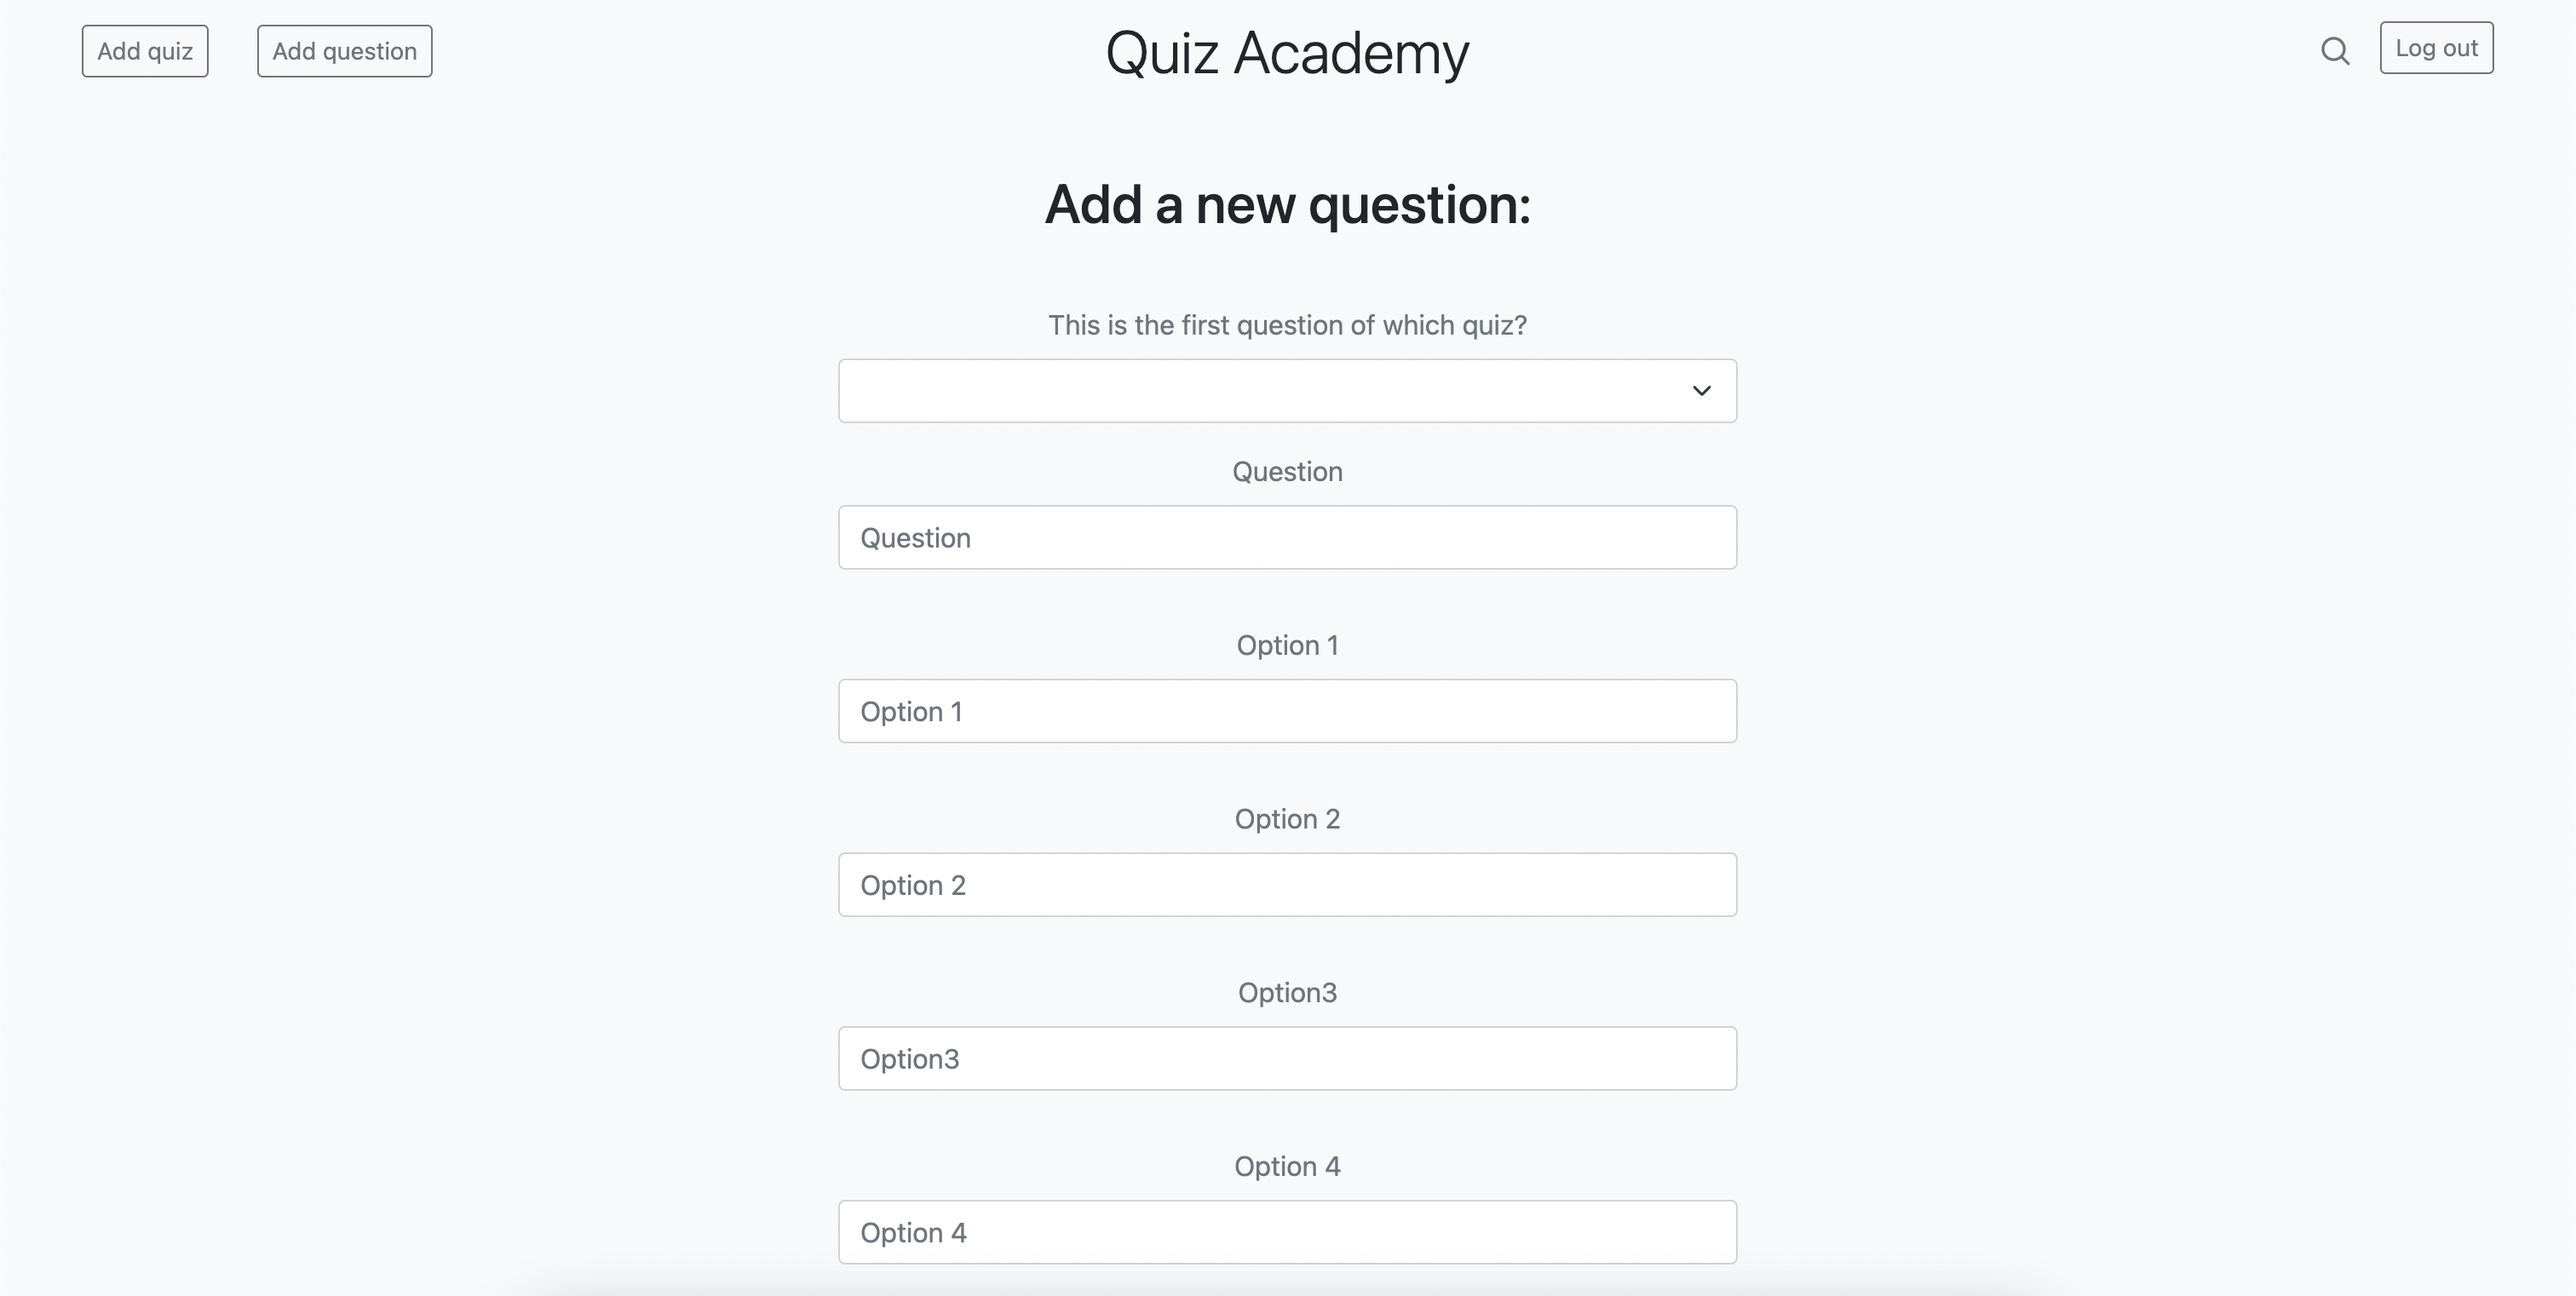
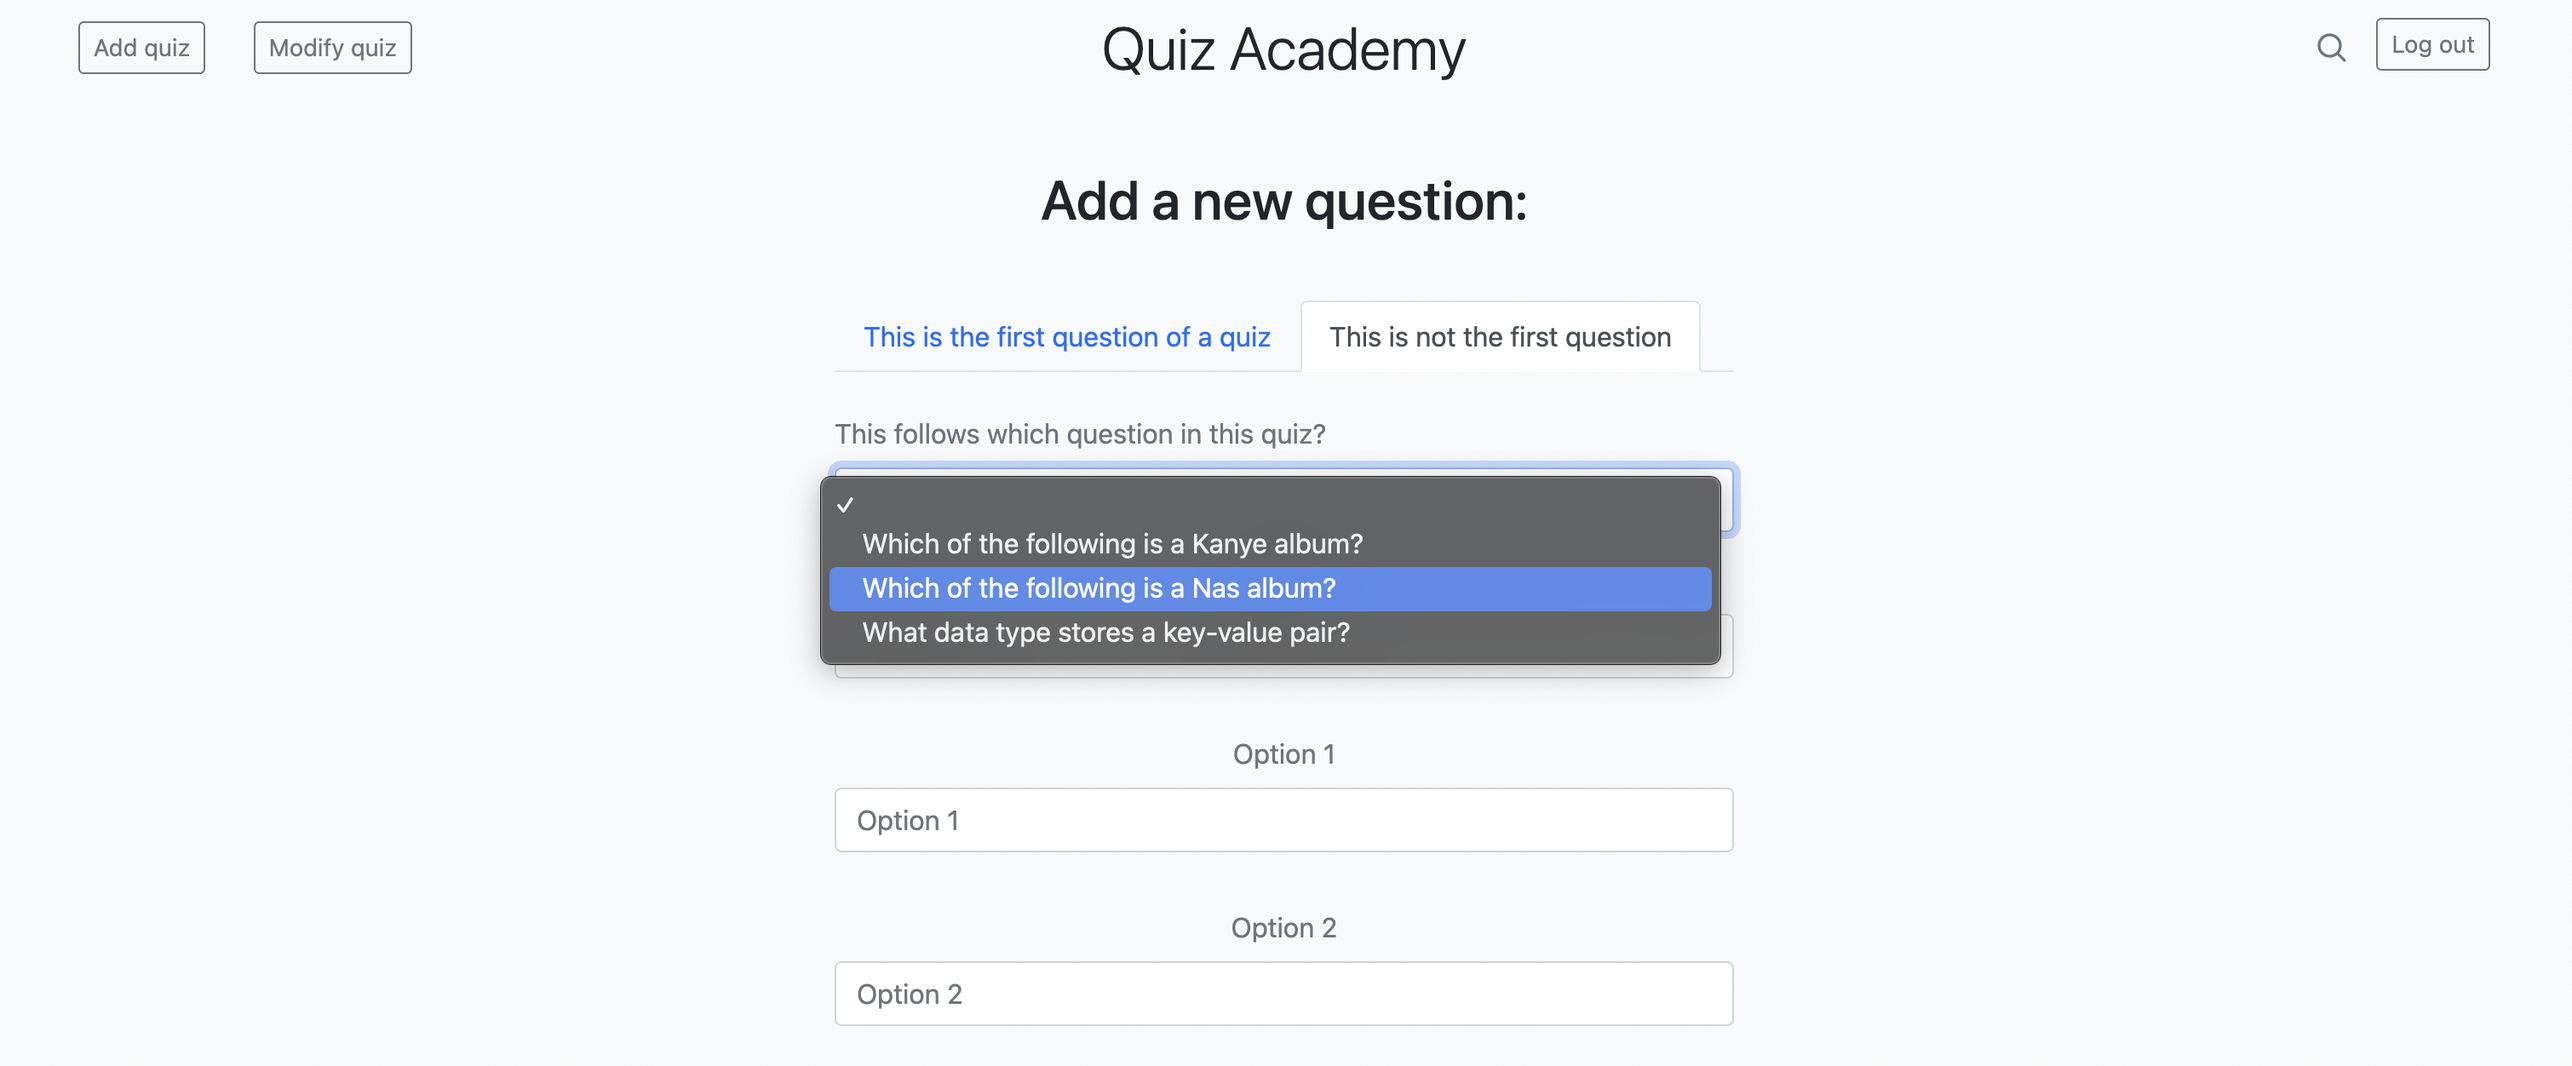
Updated README to include explanations of the newly-added edit_quiz page.

diff --git a/quizzes/templates/quizzes/base.html b/quizzes/templates/quizzes/base.html
@@ -29,7 +29,7 @@
         <div class="row flex-nowrap justify-content-between align-items-center">
             <div class="col-4 pt-1">
                 <a class="btn btn-sm btn-outline-secondary me-4" href="{% url 'quizzes:add_quiz' %}">Add quiz</a>
-                <a class="btn btn-sm btn-outline-secondary" href="{% url 'quizzes:edit_quiz' %}">Modify quiz</a>
+                <a class="btn btn-sm btn-outline-secondary" href="{% url 'quizzes:edit_quiz' %}">Edit quiz</a>
             </div>
             <div class="col-4 text-center">
                 <a class="blog-header-logo display-6 text-dark text-decoration-none" href="{% url 'quizzes:index' %}"><small>Quiz Academy</small></a>

diff --git a/README.md b/README.md
@@ -5,7 +5,7 @@ An interactive quiz app to take quizzes and track scores.
 
     ![index page](static/quiz_scores_and_quizzes.png)
 
-- Add new question to any quiz the user selects, and insert it after any existing question according to the user's choice.
+- Add new question to any quiz the user selects, and insert it anywhere in the quiz depending on previous actions the use takes.
 
     ![add_question page](static/quiz_add_question.png)
 
@@ -39,7 +39,7 @@ quiz % python3 manage.py runserver
 ## Technologies
 *Using Python, Django, HTML, and Bootstrap*
 - Used a doubly linked list to structure the questions, so users can answer one question after another and see scores that belong particularly to this user and this quiz.
-- Took advantage of the doubly linked list structure to easily add new questions to any location with a given quiz.
+- Took advantage of the doubly linked list structure to easily add new questions to any location within a given quiz.
 - Used Django to configure the URLs of each question page, so users would always be directed to the correct next question when they finished the last.
 - Worked with POST request data to calculate the scores.
 - Applied conditionals in HTML files so that given the user's number of quizzes taken, type of quiz they are taking, etc., they can see different collection of score reports, questions, and result in the same HTML page.
